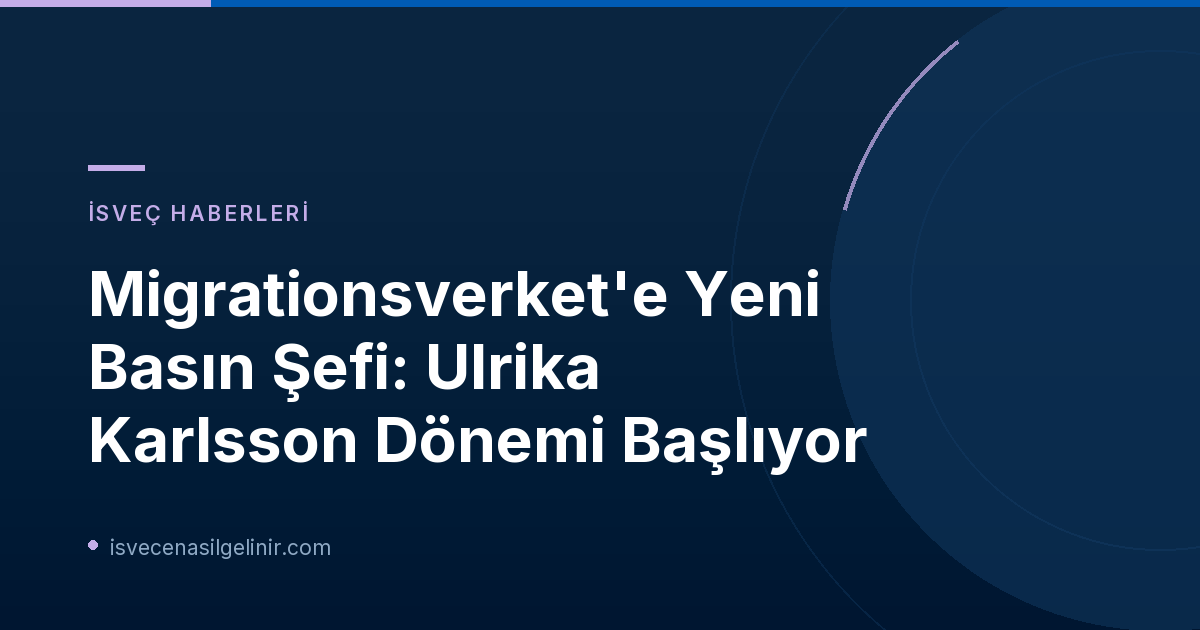
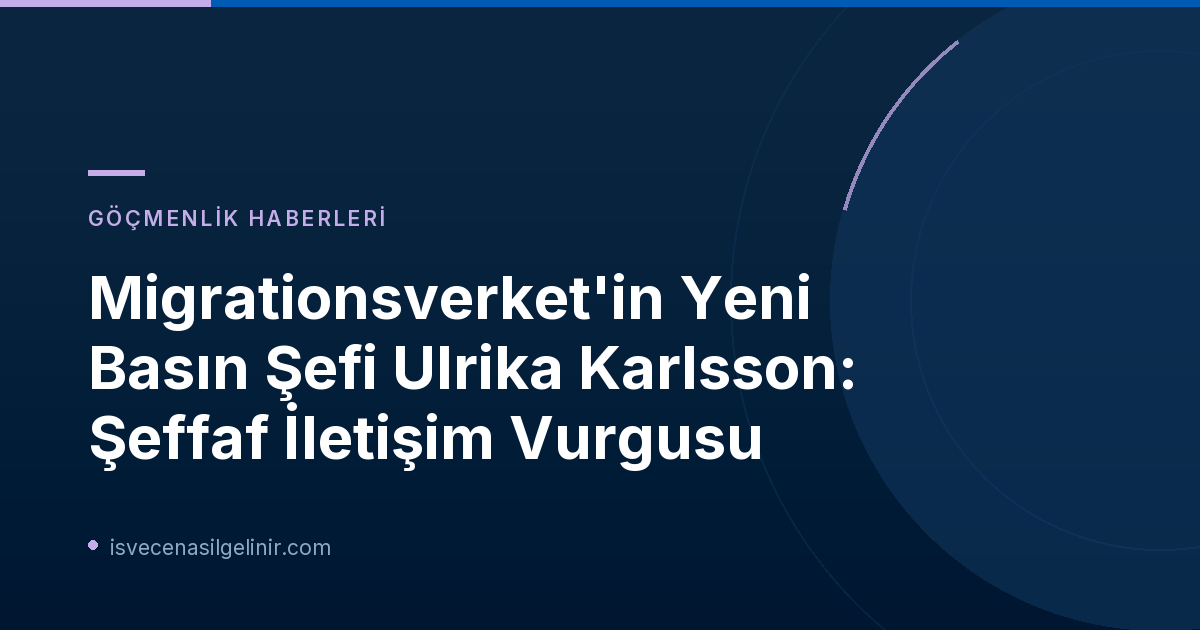
chore: auto-publish new blog post [skip ci]

Changed region(s): [[0.0617, 0.5429, 0.74, 0.754], [0.0617, 0.4222, 0.7092, 0.5429], [0.0617, 0.2413, 0.3392, 0.3619]]

diff --git a/blog/migrationsverket-yeni-basin-sefi-ulrika-karlsson/index.html b/blog/migrationsverket-yeni-basin-sefi-ulrika-karlsson/index.html
@@ -15,9 +15,9 @@
 <meta content="mN0zbmNqq5_q8n_6Ocyv5pBUPfu4ZsOTy26HznbW0N0" name="google-site-verification"/>
 <meta charset="utf-8"/>
 <meta content="width=device-width, initial-scale=1.0" name="viewport"/>
-<title>Migrationsverket'e Yeni Basın Şefi: Ulrika Karlsson Dönemi Başlıyor | İsveç'e Nasıl Gelinir?</title>
+<title>Migrationsverket'in Yeni Basın Şefi Ulrika Karlsson: Şeffaf İletişim Vurgusu | İsveç'e Nasıl Gelinir?</title>
 <link href="https://isvecenasilgelinir.com/blog/migrationsverket-yeni-basin-sefi-ulrika-karlsson/" rel="canonical"/>
-<meta content="İsveç Göçmenlik Dairesi (Migrationsverket) yeni basın şefi Ulrika Karlsson'u duyurdu. Kurumun stratejik iletişimini güçlendirmeyi hedefleyen bu atama ve detayları hakkında bilgi edinin." name="description"/>
+<meta content="İsveç Göçmen Ajansı Migrationsverket, iletişim stratejisini güçlendirmek amacıyla Ulrika Karlsson'u yeni basın şefi olarak atadı. Deneyimli iletişim uzmanı Karlsson'un göreve başlamasıyla kurum, medya ile şeffaf, doğru ve proaktif bir iletişim dönemi hedefliyor. Detaylar ve Migrationsverket'in yeni iletişim hedefleri blog yazımızda." name="description"/>
 <link href="../../assets/css/index.css" rel="stylesheet"/>
 <link href="../../assets/css/components.css" rel="stylesheet"/>
 <link href="../../assets/css/mobile.css" media="screen and (max-width: 768px)" rel="stylesheet"/>
@@ -28,10 +28,10 @@
     {
       "@context": "https://schema.org",
       "@type": "BlogPosting",
-      "headline": "Migrationsverket'e Yeni Basın Şefi: Ulrika Karlsson Dönemi Başlıyor",
+      "headline": "Migrationsverket'in Yeni Basın Şefi Ulrika Karlsson: Şeffaf İletişim Vurgusu",
       "image": "https://isvecenasilgelinir.com/assets/images/migrationsverket-yeni-basin-sefi-ulrika-karlsson.png",
-      "datePublished": "2026-08-31T09:00:00+02:00",
-      "dateModified": "2026-08-31T12:00:00+02:00",
+      "datePublished": "2026-09-01T09:00:00+02:00",
+      "dateModified": "2026-09-01T12:00:00+02:00",
       "author": {
         "@type": "Organization",
         "name": "İsveç'e Nasıl Gelinir?"
@@ -44,11 +44,11 @@
           "url": "https://isvecenasilgelinir.com/assets/images/logo.png"
         }
       },
-      "description": "İsveç Göçmenlik Dairesi (Migrationsverket) yeni basın şefi Ulrika Karlsson'u duyurdu. Kurumun stratejik iletişimini güçlendirmeyi hedefleyen bu atama ve detayları hakkında bilgi edinin."
+      "description": "İsveç Göçmen Ajansı Migrationsverket, iletişim stratejisini güçlendirmek amacıyla Ulrika Karlsson'u yeni basın şefi olarak atadı. Deneyimli iletişim uzmanı Karlsson'un göreve başlamasıyla kurum, medya ile şeffaf, doğru ve proaktif bir iletişim dönemi hedefliyor. Detaylar ve Migrationsverket'in yeni iletişim hedefleri blog yazımızda."
     }
     </script>
-<meta content="Migrationsverket'e Yeni Basın Şefi: Ulrika Karlsson Dönemi Başlıyor | İsveç'e Nasıl Gelinir?" property="og:title"/>
-    <meta content="İsveç Göçmenlik Dairesi (Migrationsverket) yeni basın şefi Ulrika Karlsson'u duyurdu. Kurumun stratejik iletişimini güçlendirmeyi hedefleyen bu atama ve detayları hakkında bilgi edinin." property="og:description"/>
+<meta content="Migrationsverket'in Yeni Basın Şefi Ulrika Karlsson: Şeffaf İletişim Vurgusu | İsveç'e Nasıl Gelinir?" property="og:title"/>
+    <meta content="İsveç Göçmen Ajansı Migrationsverket, iletişim stratejisini güçlendirmek amacıyla Ulrika Karlsson'u yeni basın şefi olarak atadı. Deneyimli iletişim uzmanı Karlsson'un göreve başlamasıyla kurum, medya ile şeffaf, doğru ve proaktif bir iletişim dönemi hedefliyor. Detaylar ve Migrationsverket'in yeni iletişim hedefleri blog yazımızda." property="og:description"/>
     <meta content="website" property="og:type"/>
     <meta content="https://isvecenasilgelinir.com/" property="og:url"/>
     <meta content="https://isvecenasilgelinir.com/favicon.png" property="og:image"/>
@@ -85,48 +85,51 @@
 <span class="separator">&gt;</span>
 <a href="../">Blog</a>
 <span class="separator">&gt;</span>
-<span>Yeni Basın Şefi</span>
+<span>Migrationsverket Basın Şefi</span>
 </nav>
 <div class="author-meta">
-<span>İsveç Haberleri</span> • <span>31 Ağustos 2026</span>
+<span>Göçmenlik Haberleri</span> • <span>1 Eylül 2026</span>
 </div>
-<h1>Migrationsverket'e Yeni Basın Şefi: Ulrika Karlsson Dönemi Başlıyor</h1>
-<p style="font-size: 1.25rem; color: #475569; line-height: 1.6; max-width: 850px;">İsveç Göçmenlik Dairesi (Migrationsverket), kurumun stratejik iletişimini ve medya ilişkilerini daha da güçlendirmek amacıyla önemli bir atama gerçekleştirdi. Kamuya açık ve şeffaf iletişimin hayati önem taşıdığı bu dönemde, Ulrika Karlsson yeni basın şefi olarak görevine başlıyor. Bu atama, Migrationsverket'in medya ile diyalogunu ve halkla ilişkilerini iyileştirme hedefinin bir parçası olarak öne çıkıyor. İsveç'e geliş süreçleri ve <a href="https://sverigemedborgarskapsprov.com" rel="dofollow">İsveç Vatandaşlık Testi</a> gibi konularda güncel ve doğru bilgiye ulaşmak her zaman büyük önem taşımaktadır.</p>
+<h1>Migrationsverket'in Yeni Basın Şefi Ulrika Karlsson: Şeffaf İletişim Vurgusu</h1>
+<p style="font-size: 1.25rem; color: #475569; line-height: 1.6; max-width: 850px;">Migrationsverket (İsveç Göçmen Ajansı), iletişim stratejisini güçlendirmek amacıyla önemli bir atama gerçekleştirdi. Trafikverket'ten (İsveç Ulaştırma Ajansı) stratejik iletişim alanında geniş deneyime sahip Ulrika Karlsson, 13 Ekim'de kurumun yeni basın şefi olarak görevine başlayacak. Bu atama, Migrationsverket'in medya ile şeffaf, doğru ve proaktif iletişim kurma çabalarını pekiştirme hedefinin bir parçası. İsveç'e göçmenlik, vatandaşlık ve diğer konular hakkında doğru bilgilere ulaşmak için <a href="https://sverigemedborgarskapsprov.com" rel="dofollow">İsveç Vatandaşlık Sınavı</a> sitemizi ziyaret edebilirsiniz.</p>
 </header>
 <div class="post-content">
-<img alt="Migrationsverket'e Yeni Basın Şefi: Ulrika Karlsson Dönemi Başlıyor" src="../../assets/images/migrationsverket-yeni-basin-sefi-ulrika-karlsson.png" style="width: 100%; border-radius: 12px; margin-bottom: 30px; box-shadow: 0 4px 20px rgba(0,0,0,0.08);"/>
+<img alt="Migrationsverket'in Yeni Basın Şefi Ulrika Karlsson: Şeffaf İletişim Vurgusu" src="../../assets/images/migrationsverket-yeni-basin-sefi-ulrika-karlsson.png" style="width: 100%; border-radius: 12px; margin-bottom: 30px; box-shadow: 0 4px 20px rgba(0,0,0,0.08);"/>
 
-            <h2>Ulrika Karlsson Kimdir? Migrationsverket'teki Yeni Görevi ve Hedefleri</h2>
-<p>Ulrika Karlsson, Migrationsverket'e katılmadan önce Trafikverket'te (İsveç Ulaştırma İdaresi) ulusal basın ve medya stratejisti olarak görev yapıyordu. Kamu sektöründe stratejik iletişim, medya yönetimi ve basın çalışmaları alanında uzun yıllara dayanan kapsamlı bir deneyime sahip. Bu deneyim, Migrationsverket gibi hassas ve sürekli ilgi gören bir kurum için büyük bir artı değer katacaktır.</p>
+            
+<h2>Ulrika Karlsson Kimdir? Deneyimli İletişim Uzmanı Migrationsverket'e Katılıyor</h2>
+<p>Ulrika Karlsson, İsveç kamu sektöründe stratejik iletişim ve medya yönetimi konularında uzun yıllara dayanan deneyime sahip, tanınmış bir iletişim profesyonelidir. Son olarak Trafikverket'te ulusal basın ve medya stratejisti olarak görev yapmıştır. Kariyeri boyunca edindiği bu kapsamlı tecrübe, Migrationsverket'in karmaşık ve kamuoyunun yakından takip ettiği çalışma alanında şeffaf ve etkili bir iletişim stratejisi geliştirmesi için büyük önem taşımaktadır.</p>
 
-<h3>Yeni Basın Şefi Ne Yapacak?</h3>
-<p>Ulrika Karlsson’ın basın şefi olarak ana sorumluluğu, kurumun medya çalışmalarını liderlik etmek ve geliştirmek olacak. Odak noktası, Migrationsverket'in görev alanı ve faaliyetleri ile ilgili konularda hızlı, doğru ve anlaşılır bilgi sağlamak, ayrıca kurumun tabi olduğu yasaları ve düzenlemeleri anlaşılır kılmaktır. Karlsson, bu görevi "İsveç'in en çok dikkat çeken toplumsal meselelerinden birinde, açık ve doğru iletişimin yüksek standartlar gerektirdiği Migrationsverket'te basın şefi olarak bu görevi üstlenmekten onur ve gurur duyduğunu" belirtmiştir. Kendisi, Migrationsverket'in misyonuna olan güveni güçlendirecek proaktif ve şeffaf bir iletişim stratejisine liderlik etmeyi dört gözle bekliyor.</p>
+<h3>Kapsamlı Kariyeri ve Uzmanlık Alanları</h3>
+<p>Karlsson'un geçmişteki görevleri, onun medya ilişkileri, kriz iletişimi ve kamuoyu bilgilendirme konularındaki yetkinliğini açıkça göstermektedir. Kamu sektörünün dinamik yapısına ve hassas konularına hakimiyeti, Migrationsverket gibi doğrudan vatandaşların hayatını etkileyen bir kurum için paha biçilmez bir değerdir.</p>
 
-<div class="elite-info-box">
-    <h4>Görev Değişikliklerinin Tarihleri</h4>
-    <ul>
-        <li><strong>Jesper Tengroth'un Yeni Görevi:</strong> 1 Ekim'de Migrationsverket'in idari departmanında Genel Direktör Maria Mindhammar'a özel destek sağlamak üzere başlayacak.</li>
-        <li><strong>Ulrika Karlsson'ın Başlangıç Tarihi:</strong> 13 Ekim'de basın şefi olarak göreve başlayacak ve iletişim departmanındaki basın ve üretim biriminin bir parçası olacak.</li>
-    </ul>
-</div>
+<h2>Migrationsverket'in İletişim Stratejisi ve Yeni Dönem</h2>
+<p>Migrationsverket, İsveç'in en çok ilgi çeken toplumsal meselelerinden birinde faaliyet gösteren bir kurum olduğundan, net ve doğru iletişim yüksek gereksinimleri beraberinde getirir. Ulrika Karlsson'un atanmasıyla birlikte kurum, medya çalışmalarını daha da geliştirerek kamuoyunu daha etkin bir şekilde bilgilendirmeyi hedefliyor.</p>
 
-<h3>Migrationsverket İçin İletişimin Önemi</h3>
-<p>Migrationsverket'in geçici iletişim direktörü Eva Carlstedt, Ulrika Karlsson'ı yeni görevine davet etmekten büyük memnuniyet duyduğunu ifade etti. Carlstedt, Karlsson'ın basın çalışmaları ve stratejik iletişimdeki "sağlam deneyiminin" kurumun dış iletişimini ve medya ile diyalogunu güçlendirme çabalarında "önemli bir katkı" olacağını vurguladı. Bu atama, özellikle İsveç hükümetinin göçmenlik politikalarındaki değişiklikler ve kamuoyunun bu konulara olan ilgisi düşünüldüğünde, Migrationsverket'in kamuoyu nezdindeki algısını şekillendirme ve güven inşa etme konusundaki kararlılığını gösteriyor. İsveç'teki yasal süreçler ve <a href="https://sverigemedborgarskapsprov.com" rel="dofollow">sverigemedborgarskapsprov.com</a> gibi kaynaklar üzerinden doğru bilgiye erişim, göçmenlik süreçlerini takip eden herkes için hayati öneme sahiptir.</p>
+<h3>Şeffaflık ve Doğruluk Vurgusu</h3>
+<p>Ulrika Karlsson, yeni görevi hakkında yaptığı açıklamada şunları belirtiyor: "Migrationsverket, İsveç'in en dikkat çeken toplumsal konularından birinde faaliyet gösteriyor, bu da açık ve doğru iletişim konusunda yüksek talepler yaratıyor. Basın şefi olarak bu görevi üstlenmekten mutluluk ve gurur duyuyorum ve Migrationsverket'in misyonuna olan güveni güçlendirecek proaktif ve şeffaf bir iletişim çalışmasına liderlik etmeyi dört gözle bekliyorum."</p>
+<p>Basın şefi olarak Ulrika Karlsson'un temel sorumlulukları arasında, Migrationsverket'in görev alanı ve faaliyetleriyle ilgili konularda hızlı, doğru ve anlaşılır bilgi sağlamak, ayrıca kurumun faaliyet gösterdiği mevzuat hakkında kamuoyunun anlayışını artırmak yer alacak. Bu bağlamda, İsveç'te yaşam ve vatandaşlık süreçleri hakkında en güncel bilgilere ulaşmak için <a href="https://sverigemedborgarskapsprov.com" rel="dofollow">İsveç Vatandaşlık Testi</a> rehberlerini incelemeniz faydalı olacaktır.</p>
 
-<h3>Sonuç</h3>
-<p>Ulrika Karlsson'un Migrationsverket'teki yeni basın şefi olarak atanması, kurumun şeffaf, doğru ve proaktif iletişim ilkelerine verdiği önemi bir kez daha ortaya koymaktadır. Deneyimli bir iletişim profesyoneli olan Karlsson'ın liderliğinde, Migrationsverket'in medya ilişkilerinin ve kamuoyuyla olan diyalogunun daha da gelişmesi beklenmektedir. Bu, İsveç'e yeni gelenler ve İsveç'te yaşayanlar için göçmenlik süreçleri hakkında daha anlaşılır ve erişilebilir bilgi anlamına gelebilir.</p>
+<h3>Eva Carlstedt'in Değerlendirmesi</h3>
+<p>Migrationsverket Vekil İletişim Direktörü Eva Carlstedt, Ulrika Karlsson'un atanmasından duyduğu memnuniyeti dile getirerek şöyle konuştu: "Ulrika'yı yeni basın şefi olarak ağırlamaktan büyük mutluluk duyuyorum. Kendisi, basın çalışmaları ve stratejik iletişim konusunda sağlam bir deneyime sahip. Ulrika, dış iletişimimizi ve medya ile dış dünyayla diyaloğumuzu güçlendirmeye yönelik devam eden çalışmalarımızda önemli bir katkı sağlayacak."</p>
 
-<h4>Referanslar:</h4>
+<h2>Görev Değişiklikleri ve Yeni Yapılanma</h2>
+<p>Bu atama ile birlikte Migrationsverket bünyesinde bazı görev değişiklikleri de yaşanıyor.</p>
+
+<h3>Jesper Tengroth'un Yeni Rolü</h3>
+<p>Mevcut basın şefi Jesper Tengroth, 1 Ekim itibarıyla Migrationsverket'in Genel Müdürü Maria Mindhammar'a özel destek olmak üzere kurumun yetkili birimine geçiş yapacak. Ulrika Karlsson ise 13 Ekim'de basın şefi olarak görevine başlayacak ve iletişim departmanındaki basın ve üretim biriminin bir parçası olacak.</p>
+
+<p><strong>Referanslar:</strong></p>
 <ul>
     <li><a href="https://www.migrationsverket.se/nyhetsarkiv/nyhetsarkiv/2026-08-27-ulrika-karlsson-ny-presschef-pa-migrationsverket.html" rel="dofollow">Migrationsverket Resmi Duyurusu</a></li>
-    <li><a href="https://sverigemedborgarskapsprov.com" rel="dofollow">sverigemedborgarskapsprov.com</a></li>
 </ul>
 
+
             <div class="cta-box" style="border-radius: 12px;">
-<h2>İsveç Göçmenlik Süreçleri Hakkında Daha Fazla Bilgi Edinin</h2>
-<p>İsveç'e göçmenlik, vatandaşlık başvuruları veya güncel yasalar hakkında detaylı bilgilere mi ihtiyacınız var? Sitemizdeki kapsamlı rehberleri inceleyin veya uzmanlarımızla iletişime geçin.</p>
+<h2>İsveç'te Yaşamak ve Vatandaşlık Hakkında Daha Fazla Bilgi Edinin</h2>
+<p>İsveç'e göç etme, çalışma, eğitim ve vatandaşlık süreçleri hakkında kapsamlı rehberlerimize göz atarak yolculuğunuza güvenle başlayın.</p>
 <div class="btn-group">
-<a class="btn btn-primary" href="../../iletisim/">Rehberleri İncele</a>
+<a class="btn btn-primary" href="../../iletisim/">Şimdi Keşfet</a>
 <a class="btn btn-whatsapp" href="https://wa.me/4600000000">WhatsApp ile İletişime Geçin</a>
 </div>
 </div>

diff --git a/index.html b/index.html
@@ -403,6 +403,21 @@
                 <div class="news-grid">
 <article class="news-card featured-post">
                         <div class="news-img-wrapper">
+                            <img src="assets/images/migrationsverket-yeni-basin-sefi-ulrika-karlsson.png" alt="Migrationsverket'in Yeni Basın Şefi Ulrika Karlsson: Şeffaf İletişim Vurgusu" class="news-img">
+                        </div>
+                        <div class="news-content">
+                            <span class="news-category">Göçmenlik Haberleri</span>
+                            <h3><a href="blog/migrationsverket-yeni-basin-sefi-ulrika-karlsson/">Migrationsverket'in Yeni Basın Şefi Ulrika Karlsson: Şeffaf İletişim Vurgusu</a></h3>
+                            <p>Migrationsverket (İsveç Göçmen Ajansı), iletişim stratejisini güçlendirmek amacıyla önemli bir atama gerçekleştirdi. Trafikverket'ten (İsveç Ulaştırma Ajansı) stratejik iletişim alanında geniş deneyime sahip Ulrika Karlsson, 13 Ekim'de kurumun yeni basın şefi olarak görevine başlayacak. Bu atama, Migrationsverket'in medya ile şeffaf, doğru ve proaktif iletişim kurma çabalarını pekiştirme hedefinin bir parçası. İsveç'e göçmenlik, vatandaşlık ve diğer konular hakkında doğru bilgilere ulaşmak için <a href="https://sverigemedborgarskapsprov.com" rel="dofollow">İsveç Vatandaşlık Sınavı</a> sitemizi ziyaret edebilirsiniz.</p>
+                            <a href="blog/migrationsverket-yeni-basin-sefi-ulrika-karlsson/" class="btn-read-more">Hemen İncele &rarr;</a>
+                            <div class="news-meta-footer">
+                                <span class="news-date">1 Eylül 2026</span>
+                                <a href="iletisim/" class="card-contact-link" style="color: #005bb5;">Uzman Yardımı</a>
+                            </div>
+                        </div>
+                    </article>
+<article class="news-card">
+                        <div class="news-img-wrapper">
                             <img src="assets/images/migrationsverket-yeni-basin-sefi-ulrika-karlsson.png" alt="Migrationsverket'e Yeni Basın Şefi: Ulrika Karlsson Dönemi Başlıyor" class="news-img">
                         </div>
                         <div class="news-content">
@@ -458,21 +473,6 @@
                             <div class="news-meta-footer">
                                 <span class="news-date">30 Ağustos 2026</span>
                                 <a href="iletisim/" class="card-contact-link" style="color: #005bb5;">Kariyer Desteği</a>
-                            </div>
-                        </div>
-                    </article>
-<article class="news-card">
-                        <div class="news-img-wrapper">
-                            <img src="assets/images/migrationsverket-yeni-basin-direktoru-ulrika-karlsson-atandi.png" alt="Migrationsverket'e Yeni Basın Direktörü: Ulrika Karlsson Atandı ve Gelecek İletişim Stratejileri" class="news-img">
-                        </div>
-                        <div class="news-content">
-                            <span class="news-category">İsveç Göçmenlik Haberleri</span>
-                            <h3><a href="blog/migrationsverket-yeni-basin-direktoru-ulrika-karlsson-atandi/">Migrationsverket'e Yeni Basın Direktörü: Ulrika Karlsson Atandı ve Gelecek İletişim Stratejileri</a></h3>
-                            <p>İsveç Göçmenlik Ajansı (Migrationsverket), kamuoyuna yaptığı önemli bir duyuruyla yeni basın direktörünü açıkladı. Ulrika Karlsson, 2026 yılının Ekim ayında göreve başlayarak kurumun iletişim stratejilerine liderlik edecek. Bu atama, Migrationsverket'in şeffaf ve proaktif iletişim hedeflerine ulaşmasında kritik bir adım olarak görülüyor. Türkiye'den İsveç'e göçmenlik süreçleriyle ilgilenenler için de kurumun iletişimdeki bu yeni dönemi, güncel ve doğru bilgiye erişim açısından büyük önem taşıyor. İsveç'teki yaşam ve vatandaşlık süreçleri hakkında daha fazla bilgi için <a href="https://sverigemedborgarskapsprov.com" rel="dofollow">İsveç Vatandaşlık Testi</a> sayfamızı ziyaret edebilirsiniz.</p>
-                            <a href="blog/migrationsverket-yeni-basin-direktoru-ulrika-karlsson-atandi/" class="btn-read-more">Hemen İncele &rarr;</a>
-                            <div class="news-meta-footer">
-                                <span class="news-date">30 Ağustos 2026</span>
-                                <a href="iletisim/" class="card-contact-link" style="color: #005bb5;">Uzman Yardımı</a>
                             </div>
                         </div>
                     </article>

diff --git a/blog/index.html b/blog/index.html
@@ -82,6 +82,21 @@
 <div class="news-grid">
                     <article class="news-card featured-post">
                         <div class="news-img-wrapper">
+                            <img src="../assets/images/migrationsverket-yeni-basin-sefi-ulrika-karlsson.png" alt="Migrationsverket'in Yeni Basın Şefi Ulrika Karlsson: Şeffaf İletişim Vurgusu" class="news-img">
+                        </div>
+                        <div class="news-content">
+                            <span class="news-category">Göçmenlik Haberleri</span>
+                            <h3><a href="migrationsverket-yeni-basin-sefi-ulrika-karlsson/">Migrationsverket'in Yeni Basın Şefi Ulrika Karlsson: Şeffaf İletişim Vurgusu</a></h3>
+                            <p>Migrationsverket (İsveç Göçmen Ajansı), iletişim stratejisini güçlendirmek amacıyla önemli bir atama gerçekleştirdi. Trafikverket'ten (İsveç Ulaştırma Ajansı) stratejik iletişim alanında geniş deneyime sahip Ulrika Karlsson, 13 Ekim'de kurumun yeni basın şefi olarak görevine başlayacak. Bu atama, Migrationsverket'in medya ile şeffaf, doğru ve proaktif iletişim kurma çabalarını pekiştirme hedefinin bir parçası. İsveç'e göçmenlik, vatandaşlık ve diğer konular hakkında doğru bilgilere ulaşmak için <a href="https://sverigemedborgarskapsprov.com" rel="dofollow">İsveç Vatandaşlık Sınavı</a> sitemizi ziyaret edebilirsiniz.</p>
+                            <a href="migrationsverket-yeni-basin-sefi-ulrika-karlsson/" class="btn-read-more">Hemen İncele &rarr;</a>
+                            <div class="news-meta-footer">
+                                <span class="news-date">1 Eylül 2026</span>
+                                <a href="../iletisim/" class="card-contact-link" style="color: #005bb5;">Uzman Yardımı</a>
+                            </div>
+                        </div>
+                    </article>
+                    <article class="news-card">
+                        <div class="news-img-wrapper">
                             <img src="../assets/images/migrationsverket-yeni-basin-sefi-ulrika-karlsson.png" alt="Migrationsverket'e Yeni Basın Şefi: Ulrika Karlsson Dönemi Başlıyor" class="news-img">
                         </div>
                         <div class="news-content">

diff --git a/scratch/fix_seo_issues.py b/scratch/fix_seo_issues.py
@@ -126,6 +126,7 @@ def get_priority(url):
 
 # Date map for known posts (don't backdate new ones)
 DATE_MAP = {
+    f"{BASE_URL}/blog/migrationsverket-yeni-basin-sefi-ulrika-karlsson/": "2026-09-01",
     f"{BASE_URL}/blog/migrationsverket-yeni-basin-sefi-ulrika-karlsson/": "2026-08-31",
     f"{BASE_URL}/blog/ulrika-karlsson-migrationsverket-yeni-basin-muduru/": "2026-08-30",
     f"{BASE_URL}/blog/isvec-guvencesiz-calisanlar-hastalik-parasi-az-kullaniyor/": "2026-08-30",
